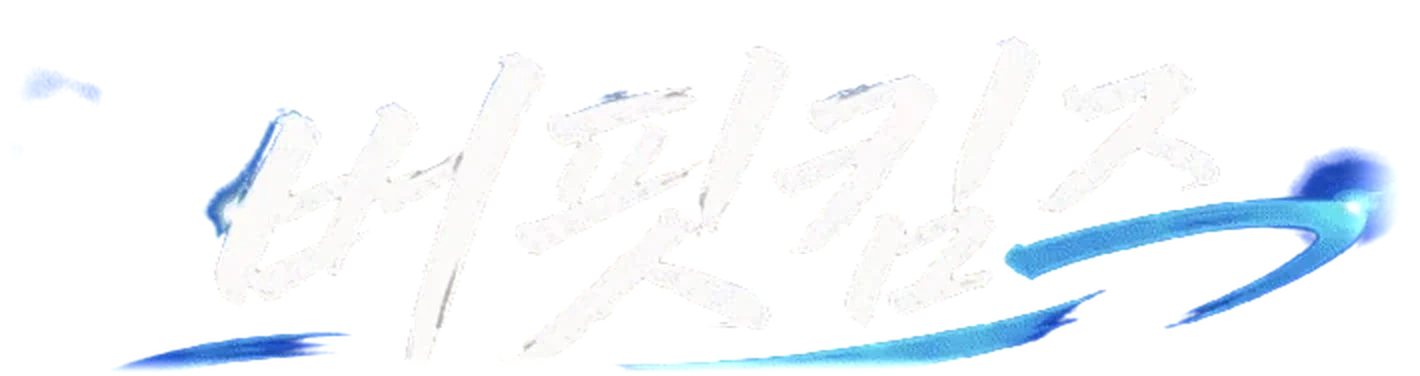
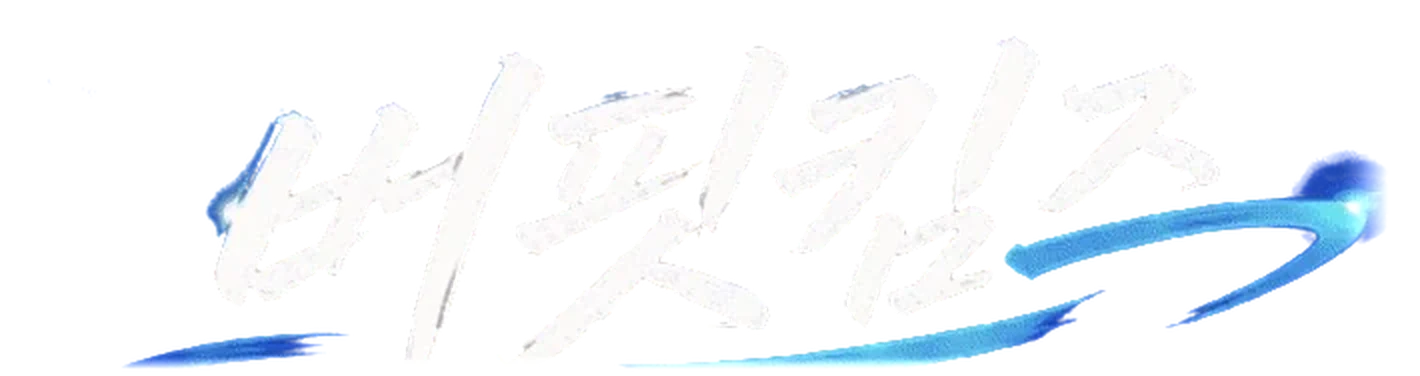
v7.0.0 polish: 한글 캘리그라피 잔상 정리(1440 리마스터)·글로우 완화·필름 위 모바일 가이드 버튼 숨김

diff --git a/src/styles/guide.css b/src/styles/guide.css
@@ -416,8 +416,9 @@ html.bk-off-tool .journey-bar[data-store="bk_tool_guide_v1"] {
   bottom: calc(104px + env(safe-area-inset-bottom));
 }
 
+/* 모바일 필름 위에서는 컨트롤과 겹치므로 가이드 버튼을 잠시 감춘다 */
 @media (max-width: 767px) {
-  .guide-dock[data-over-film="1"] {
-    bottom: calc(136px + env(safe-area-inset-bottom));
+  .guide-dock[data-over-film="1"] .guide-btn {
+    display: none;
   }
 }

diff --git a/src/styles/global.css b/src/styles/global.css
@@ -8868,7 +8868,7 @@
     width: 100%;
     height: auto;
     opacity: 0;
-    filter: drop-shadow(0 18px 48px rgb(56 183 149 / 0.3)) drop-shadow(0 0 24px rgb(255 255 255 / 0.22));
+    filter: drop-shadow(0 16px 38px rgb(56 183 149 / 0.26)) drop-shadow(0 0 14px rgb(255 255 255 / 0.14));
     will-change: opacity, transform, filter;
   }
 

diff --git a/scripts/check_brand_live.py b/scripts/check_brand_live.py
@@ -1,0 +1,14 @@
+import os, pathlib
+os.environ.setdefault("LD_LIBRARY_PATH","/workspace/.pwlibs/root/usr/lib/x86_64-linux-gnu:/workspace/.local/lib")
+from playwright.sync_api import sync_playwright
+OUT=pathlib.Path('/workspace/reports/buffetkimz-web/v70-portal')
+with sync_playwright() as p:
+    b=p.chromium.launch(executable_path="/workspace/.cache/ms-playwright/chromium-1255/chrome-linux64/chrome",args=["--no-sandbox"])
+    pg=b.new_page(viewport={"width":1280,"height":900},locale="ko-KR")
+    pg.goto("https://byhan2025.github.io/buffetkimz-web/about/",wait_until="networkidle")
+    pg.evaluate("()=>document.querySelector('#brand').scrollIntoView()")
+    pg.wait_for_timeout(1500)
+    ok=pg.evaluate("()=>[...document.querySelectorAll('.ab-brand-art img')].map(i=>({src:i.currentSrc.split('/').pop(),w:i.naturalWidth,h:i.naturalHeight,complete:i.complete}))")
+    print(ok)
+    pg.screenshot(path=str(OUT/"about-brand-live-1280.png"))
+    pg.close(); b.close()
